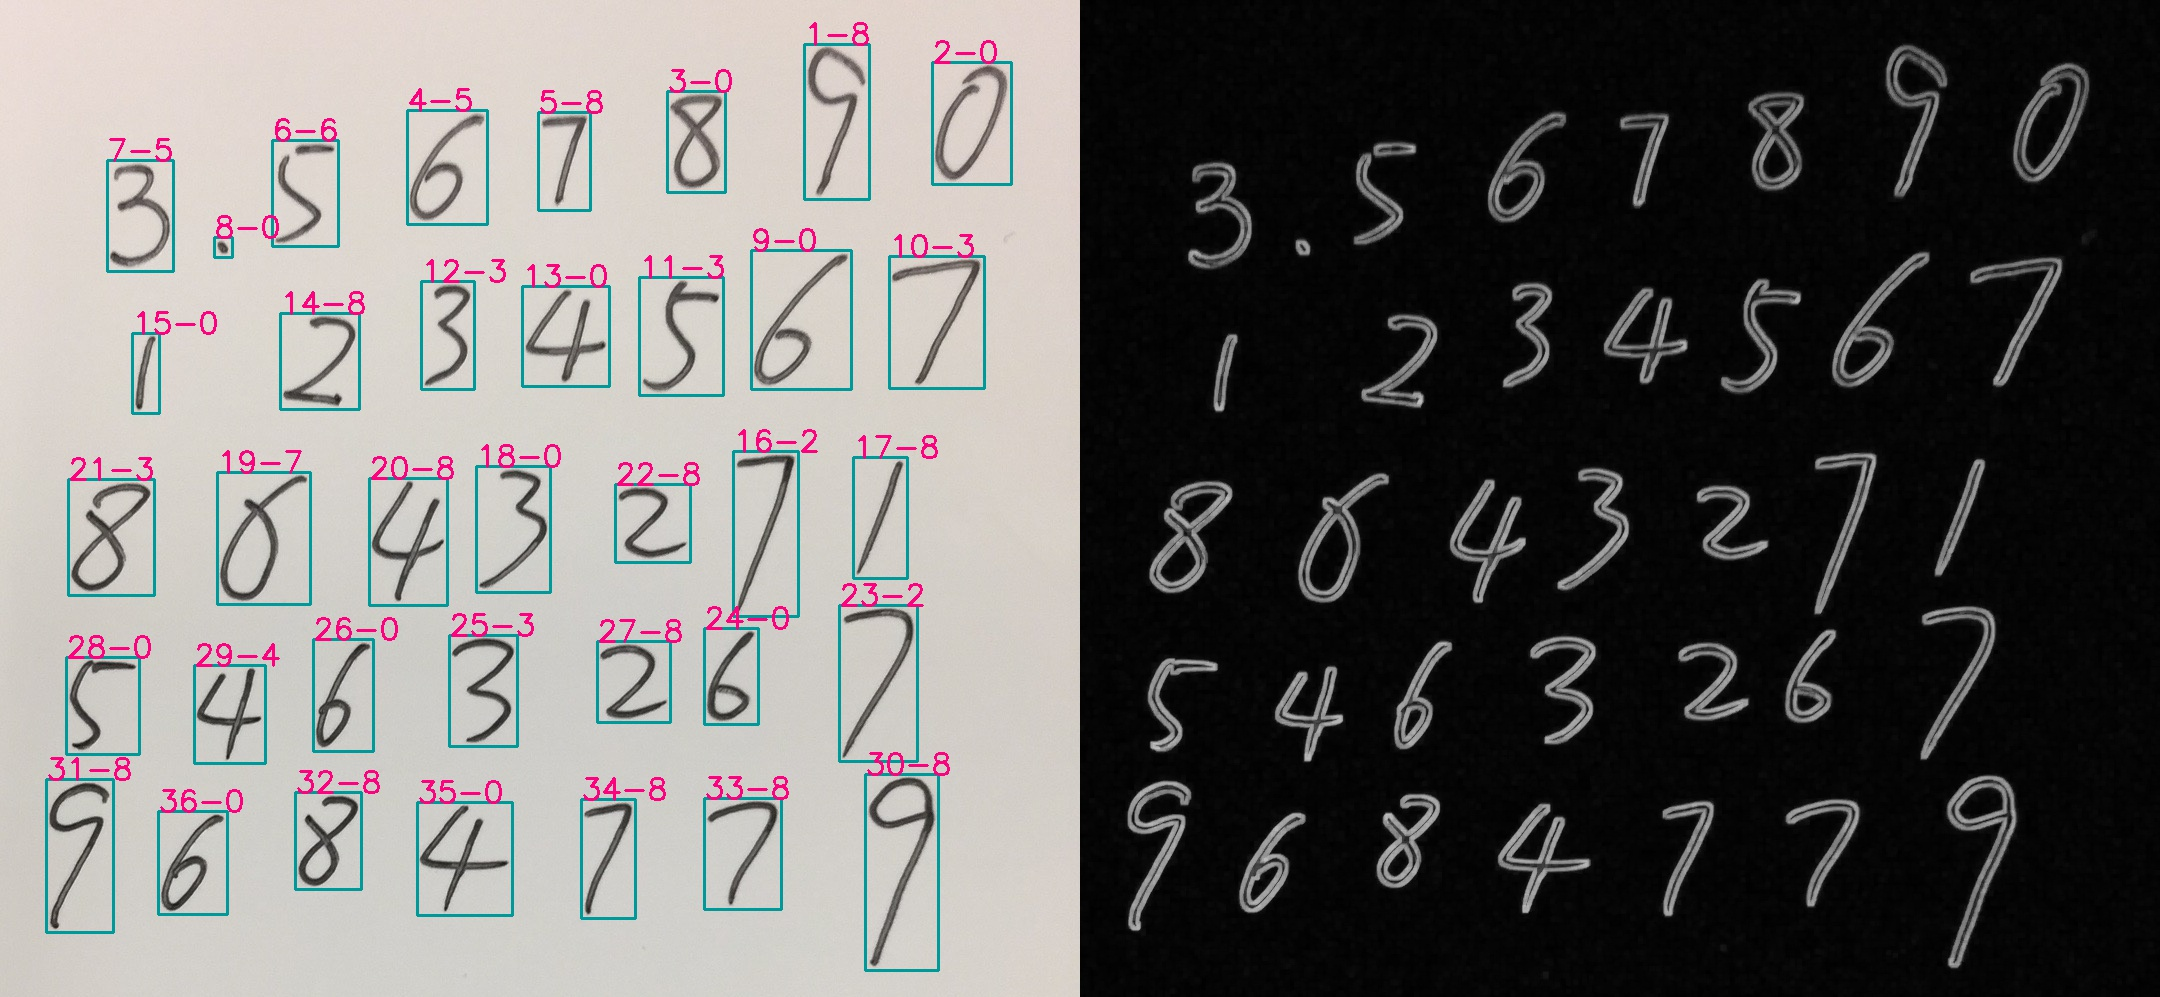
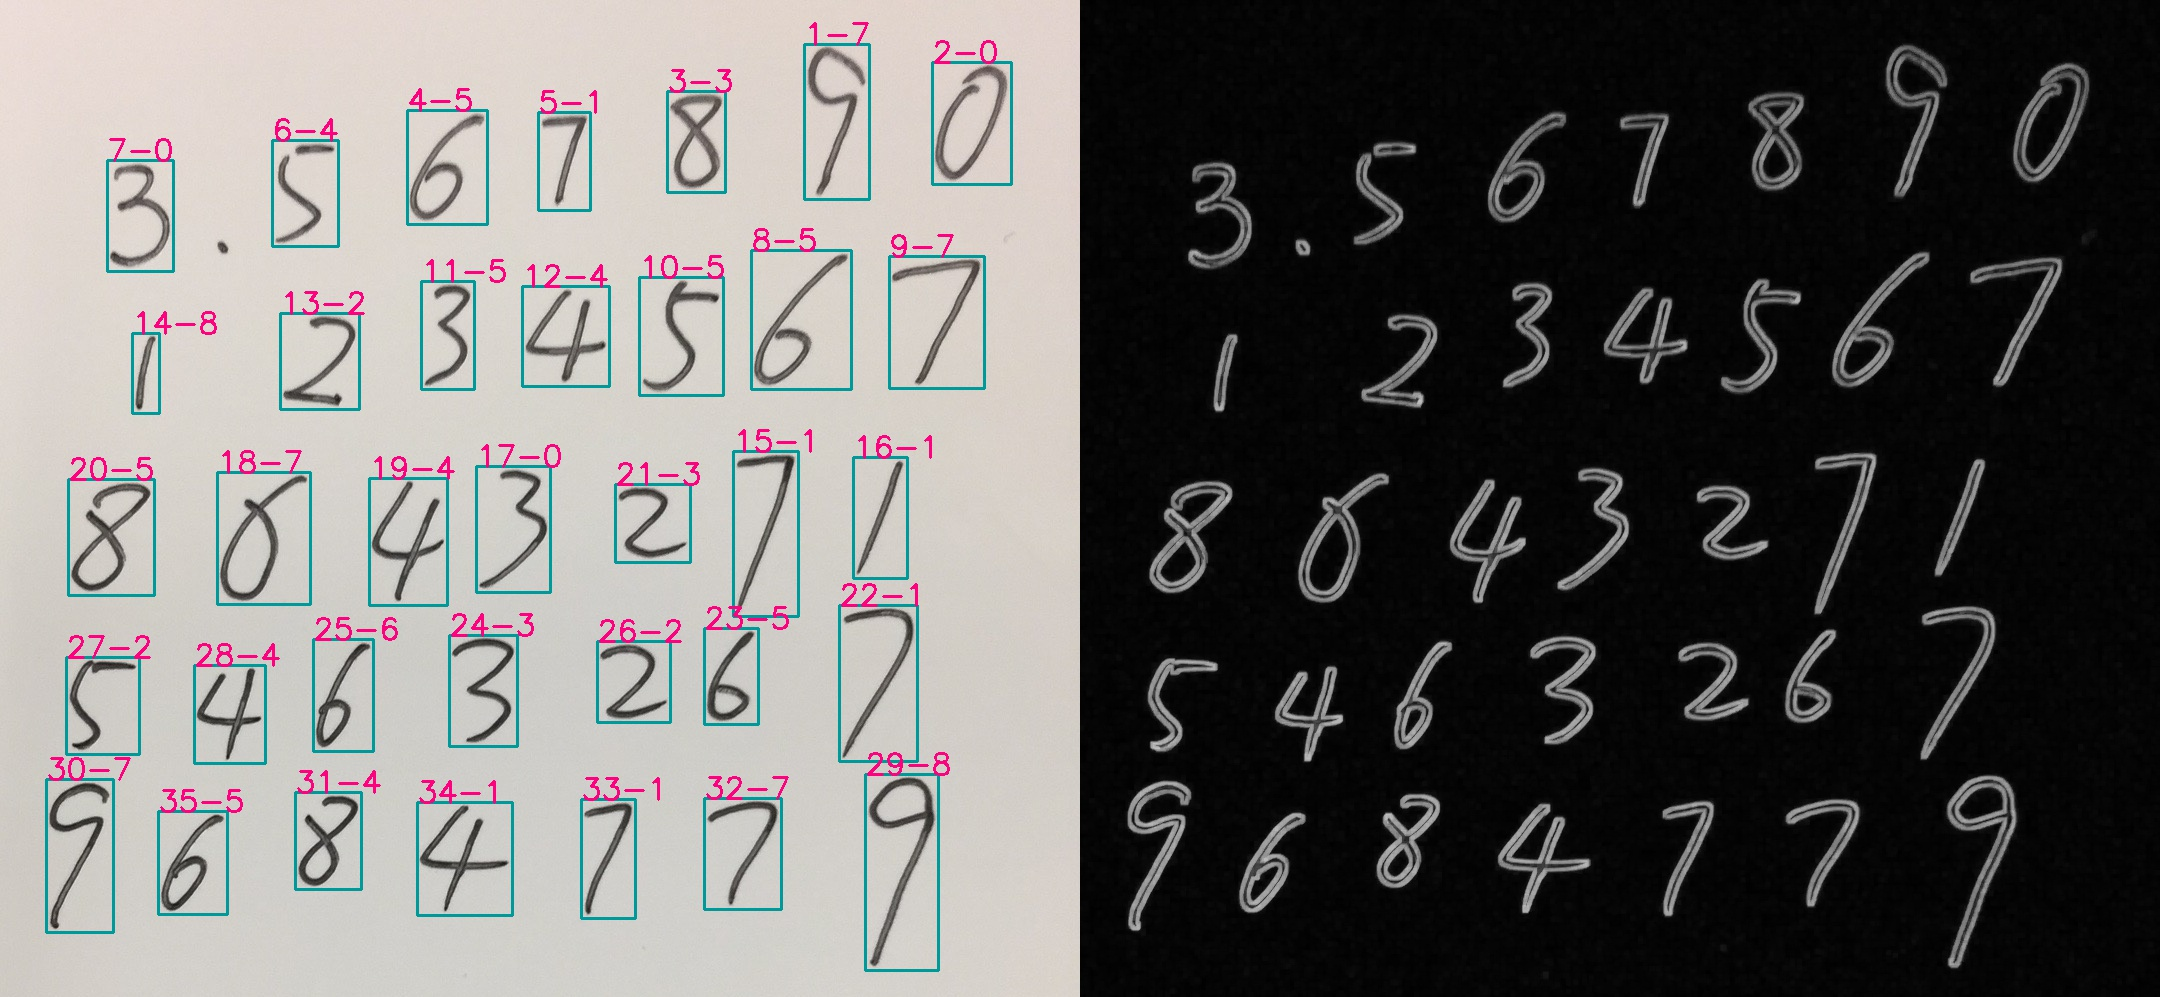
number cv

diff --git a/common/opencvcm.py b/common/opencvcm.py
@@ -60,7 +60,7 @@ def get_digits_knn():
     return knn
 
 
-def find_rois(img, thresh_value, min_width=10, min_height=10):
+def find_rois(img, thresh_value, min_width=20, min_height=20):
     """
     从图片中获取外边框在指定大小以上的感兴趣区域（ROI）。
     @:param img 图片
@@ -146,17 +146,20 @@ def find_digit_knn(knn, roi, thresh_value, id, tmp_path):
     @return: 结果数字，最终判断用的矩阵
     """
 
-    # 重新设置为标准的比较尺寸
-    resize_roi = cv2.resize(roi, (20, 20))
-    cv2.imwrite(tmp_path + '/find_digit_knn_resize-%s.jpg' % str(id), resize_roi)
+    cv2.imwrite(tmp_path + '/find_digit_knn-%s-roi.jpg' % str(id), roi)
 
     # 阈值处理
-    ret, th = cv2.threshold(resize_roi, thresh_value, 255, cv2.THRESH_BINARY)
-    # th = cv2.adaptiveThreshold(resize_roi, 255, 1, 1, 11, 2)
-    cv2.imwrite(tmp_path + '/find_digit_knn_threshold-%s.jpg' % str(id), th)
+    ret, th = cv2.threshold(roi, thresh_value, 255, cv2.THRESH_BINARY)
+    cv2.imwrite(tmp_path + '/find_digit_knn-%s-threshold.jpg' % str(id), th)
+
+
+    # 重新设置为标准的比较尺寸
+    resize_th = cv2.resize(th, (20, 20))
+    cv2.imwrite(tmp_path + '/find_digit_knn-%s_resize.jpg' % str(id), resize_th)
+
 
     # 矩阵展开成一维并转换为浮点数
-    out = th.reshape(-1, 400).astype(np.float32)
+    out = resize_th.reshape(-1, 400).astype(np.float32)
     # 通过KNN对象查找最符合的数字
     ret, result, neighbours, dist = knn.findNearest(out, k=5)
 

diff --git a/cv_img_number2.py b/cv_img_number2.py
@@ -22,7 +22,7 @@ id = 0
 for r in rois:
     x, y, w, h = r
     id += 1
-    digit, th = opencvcm.find_digit_knn(knn, edges[y:y + h, x:x + w], 5, id, tmp_path)
+    digit, th = opencvcm.find_digit_knn(knn, edges[y:y + h, x:x + w], 21, id, tmp_path)
     digits.append(cv2.resize(th, (20, 20)))
     cv2.rectangle(frame, (x, y), (x + w, y + h), (153, 153, 0), 2)
     txt = '%d-%d' % (id, digit)

diff --git a/common/filecm.py b/common/filecm.py
@@ -51,7 +51,7 @@ def save_str(content, encoding, path, file_name):
 
     # 本地文件路径如果不存在，自动创建
     if not os.path.exists(path):
-        logcm.print_info("Create folder: %d" % path)
+        logcm.print_info("Create folder: %s" % path)
         os.makedirs(path)
     # 文件完整路径
     file_path = os.path.join(path, file_name)
